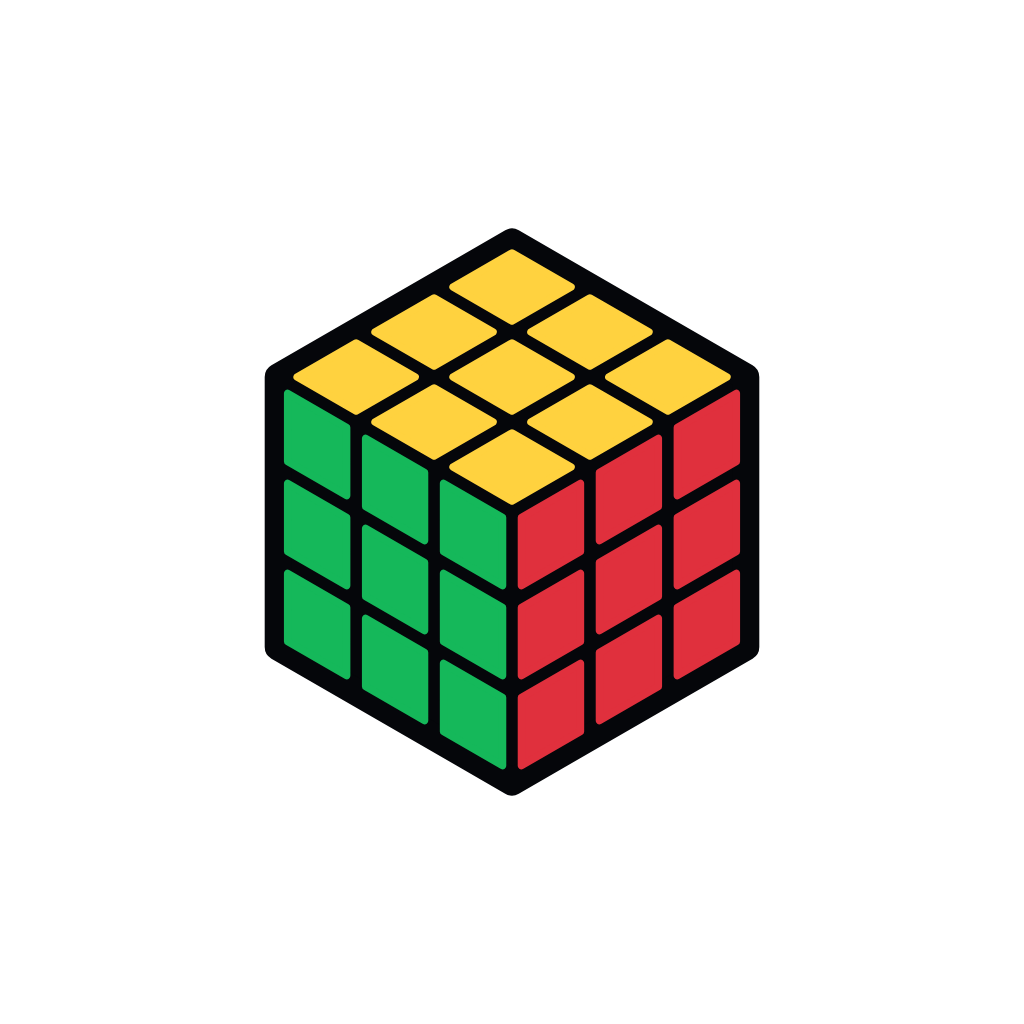
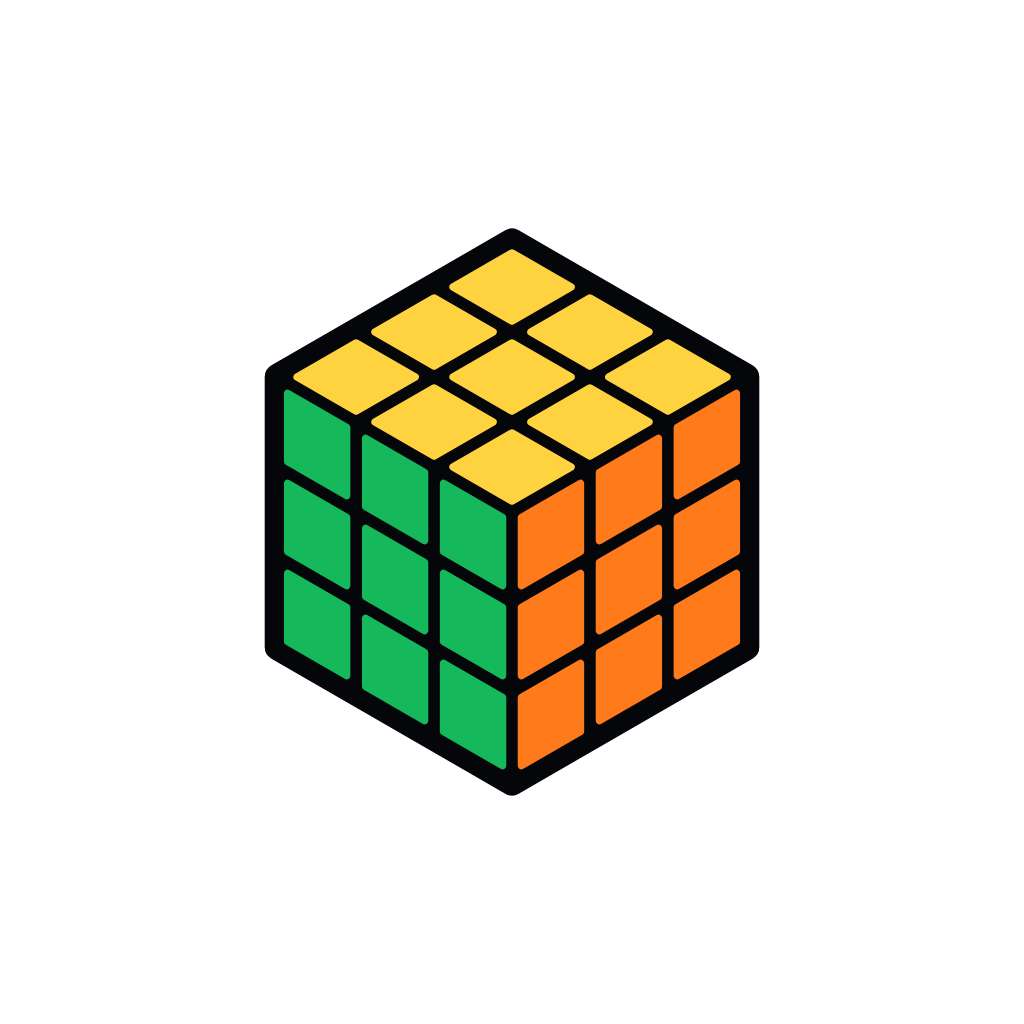
Fix mirrored colour scheme; add a cube colour setting
With yellow on top and green in front, a standard cube has orange on
the right and red on the left. The app had them swapped, so the cube
was a mirror image of a real one and 'Which PLL?' could not match
colours entered from a real cube.

- Colours come from one scheme module (standard by default)
- A setting on 'Which PLL?' and Progress for cubes with red on the right
- App icon updated to the standard scheme
- Tests pin the standard scheme and a real T perm entered by colour

Claude-Session: https://claude.ai/code/session_01NLoSVxdSazpgnUG2RF8hv1

Changed region(s): [[0.5, 0.375, 0.75, 0.75]]

diff --git a/src/screens/PllIdentify.tsx b/src/screens/PllIdentify.tsx
@@ -6,11 +6,14 @@ import { FAMILY_BY_ID } from '../content/cases';
 import { TwoSideView, RecogSteps, SIDE_HEX, SIDE_NAME } from '../ui/TwoSideView';
 import { explain } from '../training/pllRecog';
 import { parseAlg } from '../cube/cube';
+import { scheme, setScheme } from '../ui/scheme';
 import type { Nav } from '../App';
 
 const HEX = SIDE_HEX;
 const NAME = SIDE_NAME;
 const YELLOW = '#ffd23f';
+const ORDER = ['Red', 'Green', 'Orange', 'Blue'];
+const PALETTE = (['F', 'R', 'B', 'L'] as SideColour[]).sort((a, b) => ORDER.indexOf(SIDE_NAME[a]) - ORDER.indexOf(SIDE_NAME[b]));
 
 /**
  * "Which PLL do I have?" Enter the 6 side stickers of the top layer that you
@@ -38,17 +41,18 @@ export function PllIdentify({ nav }: { nav: Nav }) {
         <div className="small muted">Hold the cube with <b style={{ color: YELLOW }}>yellow on top</b>. Look at the <b>top row</b> of the front side and the right side, and tap in the 6 colours you see.</div>
         <TwoSideView colours={cells} selected={sel} onTap={setSel} numbers />
         <div className="palette">
-          {(['R', 'F', 'L', 'B'] as SideColour[]).map((c) => (
+          {PALETTE.map((c) => (
             <button key={c} className="swatch" style={{ background: HEX[c] }} onClick={() => set(c)} aria-label={NAME[c]}>{NAME[c]}</button>
           ))}
           <button className="swatch clear" onClick={() => set(null)}>Clear</button>
         </div>
         {filled > 0 && <button className="chip" onClick={() => { setCells([null, null, null, null, null, null]); setSel(0); }}>Start over</button>}
+        <SchemePicker />
       </div>
 
       {filled > 0 && (
         <section className="card">
-          {cases.length === 0 && <div className="beat warn">No case matches these colours. Check them again: orange and red are easy to mix up.</div>}
+          {cases.length === 0 && <div className="beat warn">No case matches these colours. Check them again: orange and red are easy to mix up. Also check the colour setting above: hold yellow on top and green in front. Which colour is on the right of your cube?</div>}
           {cases.length === 1 && <Answer entries={found} nav={nav} colours={filled === 6 ? (cells as SideColour[]) : null} />}
           {cases.length > 1 && (
             <>
@@ -126,5 +130,19 @@ function Guide() {
       </div>
       <div className="guide-step muted small">Tip: you only need two sides. Look at the front and right; the colours there decide the case. The tool above uses the same trick.</div>
     </section>
+  );
+}
+
+/** Cubes differ: with yellow on top and green in front, most have orange on the right. */
+export function SchemePicker() {
+  const sc = scheme();
+  return (
+    <div className="scheme">
+      <div className="small muted">Your cube: hold <b>yellow on top</b> and <b>green in front</b>. Which colour is on the <b>right</b>?</div>
+      <div className="segmented">
+        <button className={sc === 'standard' ? 'on' : ''} onClick={() => sc !== 'standard' && setScheme('standard')}>Orange (most cubes)</button>
+        <button className={sc === 'mirrored' ? 'on' : ''} onClick={() => sc !== 'mirrored' && setScheme('mirrored')}>Red</button>
+      </div>
+    </div>
   );
 }

diff --git a/src/ui/scheme.ts b/src/ui/scheme.ts
@@ -1,0 +1,48 @@
+/**
+ * Cube colour scheme. The standard (Western) scheme, held with yellow on
+ * top and green in front, has ORANGE on the right and RED on the left.
+ * Some cubes are made the other way round, so the learner can switch;
+ * the choice is saved on the device and applied everywhere.
+ */
+export type Scheme = 'standard' | 'mirrored';
+type FaceKey = 'U' | 'D' | 'F' | 'B' | 'R' | 'L';
+
+const KEY = 'cfop-coach/scheme';
+const RED = '#e0303d';
+const ORANGE = '#ff7a1a';
+const BASE: Record<FaceKey, string> = { U: '#ffd23f', D: '#f5f5f0', F: '#15b85a', B: '#2563eb', R: ORANGE, L: RED };
+
+let current: Scheme | null = null;
+
+export function scheme(): Scheme {
+  if (current) return current;
+  try {
+    current = localStorage.getItem(KEY) === 'mirrored' ? 'mirrored' : 'standard';
+  } catch {
+    current = 'standard';
+  }
+  return current;
+}
+
+/** Saves the choice and reloads, so every view picks up the new colours. */
+export function setScheme(s: Scheme) {
+  try {
+    localStorage.setItem(KEY, s);
+  } catch {
+    /* storage blocked: keep for this visit only */
+  }
+  current = s;
+  location.reload();
+}
+
+export function faceHex(face: FaceKey): string {
+  if (scheme() === 'mirrored' && (face === 'R' || face === 'L')) return face === 'R' ? RED : ORANGE;
+  return BASE[face];
+}
+
+export function faceName(face: FaceKey): string {
+  const hex = faceHex(face);
+  return { '#ffd23f': 'Yellow', '#f5f5f0': 'White', '#15b85a': 'Green', '#2563eb': 'Blue', [RED]: 'Red', [ORANGE]: 'Orange' }[hex]!;
+}
+
+export const faceHexNumber = (face: FaceKey) => parseInt(faceHex(face).slice(1), 16);

diff --git a/tests/scheme.test.ts b/tests/scheme.test.ts
@@ -1,0 +1,20 @@
+import { describe, it, expect } from 'vitest';
+import { faceName } from '../src/ui/scheme';
+import { identify, distinctCases, SideColour } from '../src/training/pllId';
+
+describe('colour scheme', () => {
+  it('matches a standard cube: yellow top, green front → orange right, red left', () => {
+    expect(faceName('U')).toBe('Yellow');
+    expect(faceName('F')).toBe('Green');
+    expect(faceName('R')).toBe('Orange');
+    expect(faceName('L')).toBe('Red');
+    expect(faceName('B')).toBe('Blue');
+  });
+  it('a real T perm entered by colour name is recognised', () => {
+    // T perm on a standard cube, headlights on the left, held green-front:
+    // front row: green green orange · right row: blue red green
+    const byName: Record<string, SideColour> = { Green: 'F', Orange: 'R', Blue: 'B', Red: 'L' };
+    const seen = ['Green', 'Green', 'Orange', 'Blue', 'Red', 'Green'].map((n) => byName[n]);
+    expect(distinctCases(identify(seen)).map((c) => c?.id)).toEqual(['pll-t']);
+  });
+});

diff --git a/src/screens/Stats.tsx b/src/screens/Stats.tsx
@@ -5,6 +5,7 @@ import { Diagram } from '../ui/Diagram';
 import { makeCase } from '../content/caseState';
 import { Stat, TopBar } from '../ui/widgets';
 import type { Nav } from '../App';
+import { SchemePicker } from './PllIdentify';
 
 function Spark({ values, color, max }: { values: number[]; color: string; max?: number }) {
   if (values.length < 2) return <div className="muted small">Train on a few days to see a trend.</div>;
@@ -100,6 +101,11 @@ export function Stats({ nav }: { nav: Nav }) {
         {p.discoveries.length > 0 && (
           <div className="muted small">Self-found solutions: {p.discoveries.length} · avg {(avg(p.discoveries.map((d) => d.moves - d.ref))).toFixed(1)} moves over reference</div>
         )}
+      </section>
+
+      <section className="card">
+        <div className="section-title">Cube colours</div>
+        <SchemePicker />
       </section>
 
       <button className="chip danger" onClick={() => confirm('Reset all progress?') && resetProgress()}>Reset progress</button>

diff --git a/src/ui/widgets.tsx b/src/ui/widgets.tsx
@@ -2,8 +2,9 @@ import { useState } from 'react';
 import { Move, MoveBase, moveToString } from '../cube/cube';
 import { Beat, Chunk, SolutionReport } from '../cube/analysis';
 import { HINT_LABELS, HintLevel } from '../training/goals';
+import { faceHex } from './scheme';
 
-const FACE_TINT: Record<string, string> = { U: '#ffd23f', D: '#f5f5f0', F: '#15b85a', B: '#2563eb', R: '#e0303d', L: '#ff7a1a', M: '#94a3b8', E: '#94a3b8', S: '#94a3b8', x: '#64748b', y: '#64748b', z: '#64748b' };
+const FACE_TINT: Record<string, string> = { U: faceHex('U'), D: faceHex('D'), F: faceHex('F'), B: faceHex('B'), R: faceHex('R'), L: faceHex('L'), M: '#94a3b8', E: '#94a3b8', S: '#94a3b8', x: '#64748b', y: '#64748b', z: '#64748b' };
 
 export function MovePad({ onMove, onUndo, compact }: { onMove: (m: Move) => void; onUndo?: () => void; compact?: boolean }) {
   const [prime, setPrime] = useState(false);

diff --git a/src/ui/TwoSideView.tsx b/src/ui/TwoSideView.tsx
@@ -1,8 +1,9 @@
 import { SideColour } from '../training/pllId';
+import { faceHex, faceName } from './scheme';
 import { Explanation, PATTERN_TEXT, RELATION_TEXT, STICKER_LABEL } from '../training/pllRecog';
 
-export const SIDE_HEX: Record<SideColour, string> = { F: '#15b85a', R: '#e0303d', B: '#2563eb', L: '#ff7a1a' };
-export const SIDE_NAME: Record<SideColour, string> = { F: 'Green', R: 'Red', B: 'Blue', L: 'Orange' };
+export const SIDE_HEX: Record<SideColour, string> = { F: faceHex('F'), R: faceHex('R'), B: faceHex('B'), L: faceHex('L') };
+export const SIDE_NAME: Record<SideColour, string> = { F: faceName('F'), R: faceName('R'), B: faceName('B'), L: faceName('L') };
 const YELLOW = '#ffd23f';
 const EMPTY = '#2a3040';
 

diff --git a/src/three/CubeView.ts b/src/three/CubeView.ts
@@ -4,14 +4,15 @@ import {
   CUBIES, CUBIE_BY_ID, CubeState, Move, MoveBase, MOVE_DEFS, Mat, Vec, Face,
   applyMove, layerMembers, quarterTurns, solvedState, frame,
 } from '../cube/cube';
+import { faceHexNumber } from '../ui/scheme';
 
 export const COLORS: Record<Face, number> = {
-  U: 0xffd23f,
-  D: 0xf5f5f0,
-  F: 0x15b85a,
-  B: 0x2563eb,
-  R: 0xe0303d,
-  L: 0xff7a1a,
+  U: faceHexNumber('U'),
+  D: faceHexNumber('D'),
+  F: faceHexNumber('F'),
+  B: faceHexNumber('B'),
+  R: faceHexNumber('R'),
+  L: faceHexNumber('L'),
 };
 const GREY = 0x3b4150;
 const BODY = 0x0d0f14;

diff --git a/src/ui/Diagram.tsx b/src/ui/Diagram.tsx
@@ -1,7 +1,8 @@
 import { CubeState, Face, Vec, facelets, faceletAt, FIRST_TWO_LAYERS, CUBIES, relPos, frame } from '../cube/cube';
 import { Stage } from '../cube/analysis';
+import { faceHex } from './scheme';
 
-const HEX: Record<Face, string> = { U: '#ffd23f', D: '#f5f5f0', F: '#15b85a', B: '#2563eb', R: '#e0303d', L: '#ff7a1a' };
+const HEX: Record<Face, string> = { U: faceHex('U'), D: faceHex('D'), F: faceHex('F'), B: faceHex('B'), R: faceHex('R'), L: faceHex('L') };
 const GREY = '#3b4150';
 
 /** Compact 2D case picture: top view for last layer, isometric for F2L/cross. */

diff --git a/src/styles.css b/src/styles.css
@@ -261,3 +261,5 @@ button:disabled { cursor: default; }
 .map-row:last-child { border-bottom: 0; }
 .map-look { display: flex; flex-wrap: wrap; gap: 4px; font-weight: 600; }
 .map-answer { color: #c3c9d6; }
+
+.scheme { display: flex; flex-direction: column; gap: 6px; border-top: 1px solid var(--line); padding-top: 10px; }
